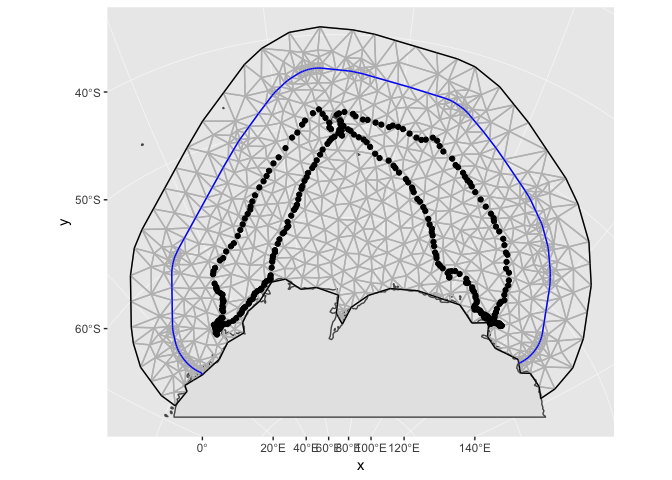
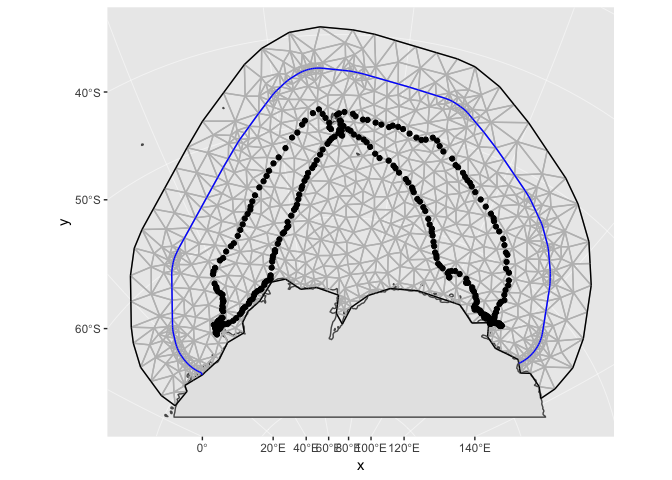
Update meshr function and documentation follwing feeback from Finn

Changed region(s): [[0.25, 0.0625, 0.875, 0.75]]

diff --git a/README.md b/README.md
@@ -75,8 +75,12 @@ prj <- '+proj=laea +lat_0=-60 +lon_0=70 +x_0=0 +y_0=0 +datum=WGS84 +units=m +no_
 # use meshr to generate the boundary
 b <- meshr(ellie, prj, buff = 5e5, keep = 0.05, Neumann = T)
 
-# use the boundary to generate the INLA mesh
-mesh = inla.mesh.2d(boundary = b, max.edge = c(250000, 1e+06), cutoff = 25000, max.n = 1000)
+# use the boundary to generate the INLA mesh and pass the same projection
+mesh = inla.mesh.2d(boundary = b,
+                    max.edge = c(250000, 1e+06),
+                    cutoff = 25000,
+                    max.n = 1000,
+                    crs = CRS(prj))
 
 # output a plot using ggplot
 p2 <- ggplot() + 
